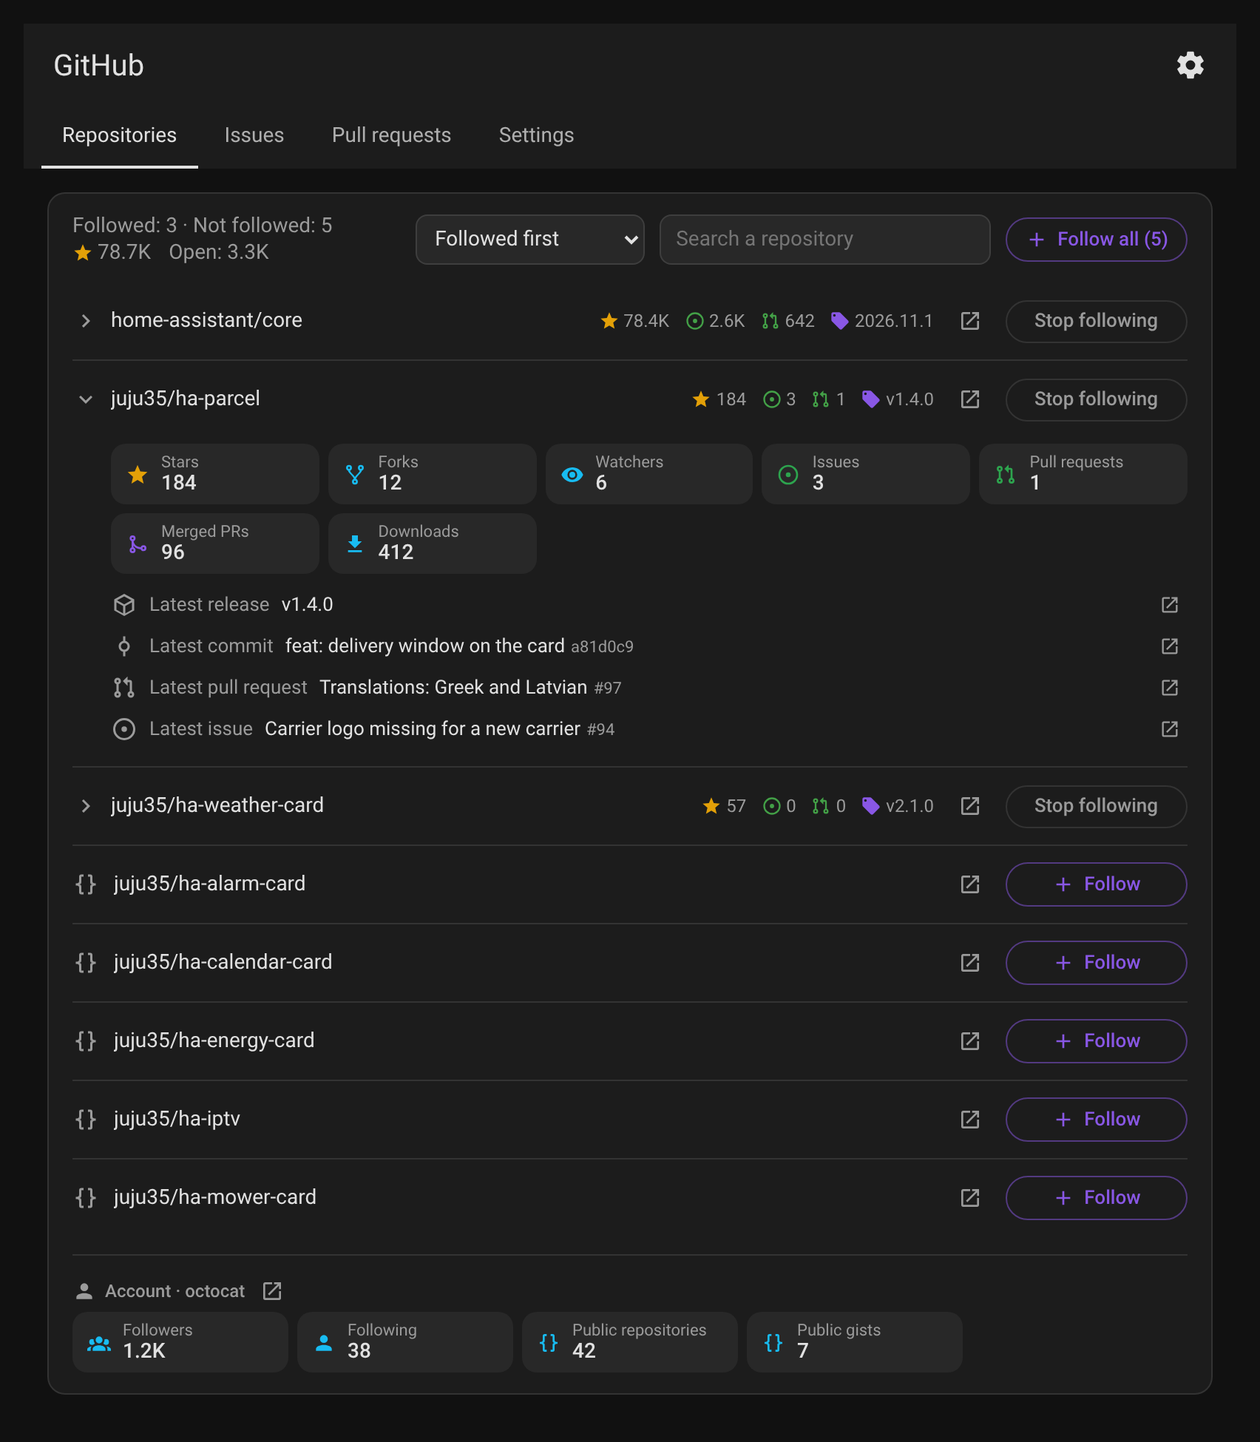
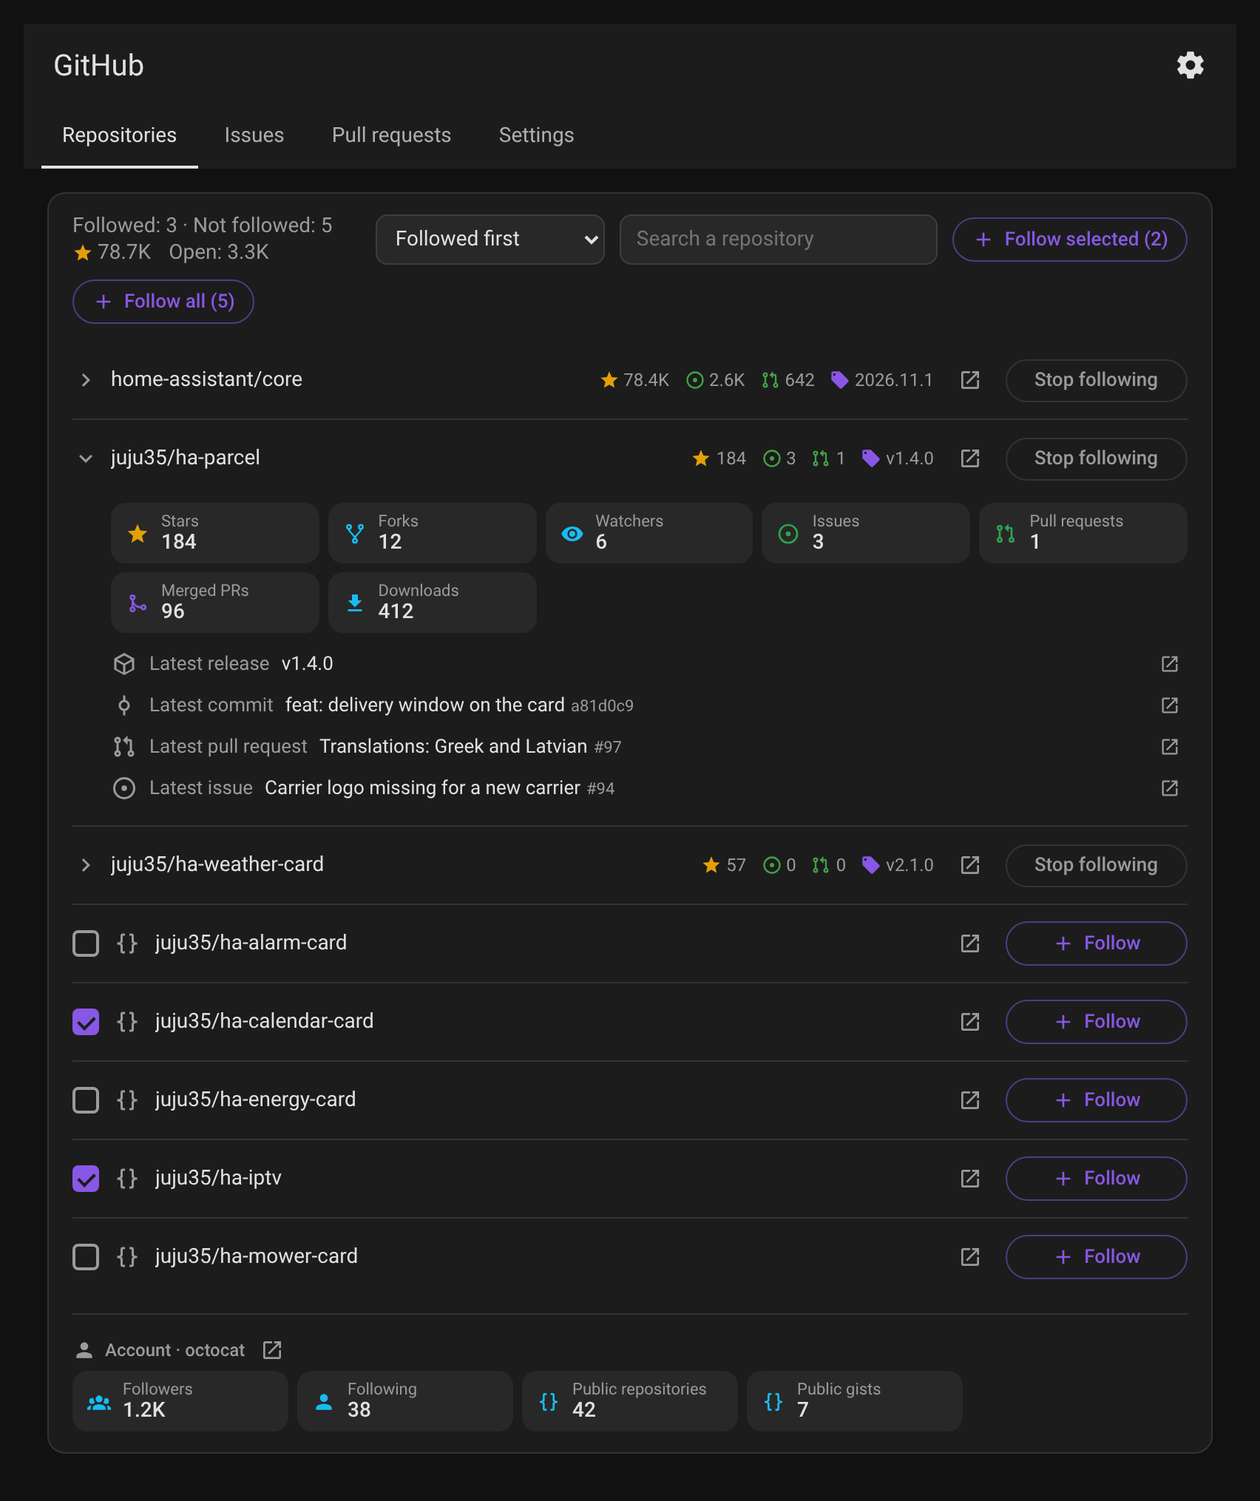
feat: follow several selected repositories at once (2.7.0) (#21)
## Summary
- Panel, **Repositories** tab: a checkbox on each repository not followed yet (accent color, labelled "Select owner/repo", 22 languages).
- **Follow selected (n)** appears in the head as soon as one is ticked, next to **Follow all**: the ticked repositories are followed in one `github_card/follow` command, so a single reload of the GitHub integration.
- The selection survives the search (repositories found by different searches can be followed together), drops repositories no longer offered, and is cleared once followed.
- Version 2.7.0, CHANGELOG, README.

## Tests
- New panel test (checkboxes rendered, head button, selection pruned, ticked repositories sent despite the search, selection cleared).
- node tests 41 passed, pytest 36 passed, Biome and jscpd clean.

diff --git a/custom_components/github_card/frontend/github-panel.js b/custom_components/github_card/frontend/github-panel.js
@@ -5,7 +5,7 @@
  * Four tabs under the toolbar, as in Smart Comfort and IPTV (text tabs, the active one underlined, the tab in the
  * address, Settings last):
  * - Repositories: the repositories of your GitHub account (and your starred ones, if chosen), followed or not by the
- *   core GitHub integration; follow or stop following one, or follow all of them at once (one reload of the GitHub
+ *   core GitHub integration; follow or stop following one, the ticked ones or all of them at once (one reload of the GitHub
  *   integration for the whole change), through the github_card/* WebSocket commands. Each followed repository shows
  *   its live counters and unfolds the GitHub Card's details; the head gives the totals (stars, open issues and pull
  *   requests), the GitHub account (followers…) closes the list;
@@ -15,7 +15,7 @@
  *   notifications.
  */
 
-const GITHUB_PANEL_VERSION = "2.6.0";
+const GITHUB_PANEL_VERSION = "2.7.0";
 // No Activity tab since 2.3.0: the Repositories tab shows the same; /github-config/activity opens Repositories.
 const GITHUB_PANEL_TABS = ["repos", "issues", "pulls", "settings"];
 // Orders of the Repositories tab (see GitHubPanel._rows)
@@ -38,6 +38,8 @@ const GITHUB_PANEL_KEYS = [
   "sort_label", "sort_followed", "sort_name", "sort_stars", "sort_issues", "sort_pulls",
   // A failed load, tried again at once
   "retry",
+  // Several repositories followed at once
+  "follow_selected", "select_repo",
 ];
 
 const GITHUB_PANEL_TRANSLATIONS = {
@@ -61,6 +63,7 @@ const GITHUB_PANEL_TRANSLATIONS = {
     "Stars", "Latest release", "Show or hide the details",
     "Sort", "Followed first", "Name", "Stars", "Open issues", "Open pull requests",
     "Retry",
+    "Follow selected ({n})", "Select {repo}",
   ],
   fr: [
     "GitHub", "Dépôts", "Activité", "Réglages", "Intégration GitHub", "Chargement…",
@@ -82,6 +85,7 @@ const GITHUB_PANEL_TRANSLATIONS = {
     "Étoiles", "Dernière version", "Afficher ou masquer le détail",
     "Tri", "Suivis d’abord", "Nom", "Étoiles", "Issues ouvertes", "Pull requests ouvertes",
     "Réessayer",
+    "Suivre la sélection ({n})", "Sélectionner {repo}",
   ],
   de: [
     "GitHub", "Repositorys", "Aktivität", "Einstellungen", "GitHub-Integration", "Wird geladen…",
@@ -103,6 +107,7 @@ const GITHUB_PANEL_TRANSLATIONS = {
     "Sterne", "Neuestes Release", "Details ein- oder ausblenden",
     "Sortierung", "Verfolgte zuerst", "Name", "Sterne", "Offene Issues", "Offene Pull Requests",
     "Erneut versuchen",
+    "Auswahl verfolgen ({n})", "{repo} auswählen",
   ],
   es: [
     "GitHub", "Repositorios", "Actividad", "Ajustes", "Integración GitHub", "Cargando…",
@@ -124,6 +129,7 @@ const GITHUB_PANEL_TRANSLATIONS = {
     "Estrellas", "Última versión", "Mostrar u ocultar el detalle",
     "Orden", "Seguidos primero", "Nombre", "Estrellas", "Issues abiertas", "Pull requests abiertas",
     "Reintentar",
+    "Seguir la selección ({n})", "Seleccionar {repo}",
   ],
   sr: [
     "GitHub", "Репозиторијуми", "Активност", "Подешавања", "Интеграција GitHub", "Учитавање…",
@@ -145,6 +151,7 @@ const GITHUB_PANEL_TRANSLATIONS = {
     "Звездице", "Најновије издање", "Прикажи или сакриј детаље",
     "Редослед", "Прво праћени", "Име", "Звездице", "Отворени проблеми", "Отворени pull захтеви",
     "Покушај поново",
+    "Прати изабране ({n})", "Изабери {repo}",
   ],
   "sr-Latn": [
     "GitHub", "Repozitorijumi", "Aktivnost", "Podešavanja", "Integracija GitHub", "Učitavanje…",
@@ -166,6 +173,7 @@ const GITHUB_PANEL_TRANSLATIONS = {
     "Zvezdice", "Najnovije izdanje", "Prikaži ili sakrij detalje",
     "Redosled", "Prvo praćeni", "Ime", "Zvezdice", "Otvoreni problemi", "Otvoreni pull zahtevi",
     "Pokušaj ponovo",
+    "Prati izabrane ({n})", "Izaberi {repo}",
   ],
   it: [
     "GitHub", "Repository", "Attività", "Impostazioni", "Integrazione GitHub", "Caricamento…",
@@ -187,6 +195,7 @@ const GITHUB_PANEL_TRANSLATIONS = {
     "Stelle", "Ultima release", "Mostra o nascondi i dettagli",
     "Ordinamento", "Prima i seguiti", "Nome", "Stelle", "Issue aperte", "Pull request aperte",
     "Riprova",
+    "Segui la selezione ({n})", "Seleziona {repo}",
   ],
   nl: [
     "GitHub", "Repositories", "Activiteit", "Instellingen", "GitHub-integratie", "Laden…",
@@ -208,6 +217,7 @@ const GITHUB_PANEL_TRANSLATIONS = {
     "Sterren", "Nieuwste release", "Details tonen of verbergen",
     "Sortering", "Gevolgde eerst", "Naam", "Sterren", "Open issues", "Open pull requests",
     "Opnieuw proberen",
+    "Selectie volgen ({n})", "{repo} selecteren",
   ],
   pt: [
     "GitHub", "Repositórios", "Atividade", "Definições", "Integração GitHub", "A carregar…",
@@ -229,6 +239,7 @@ const GITHUB_PANEL_TRANSLATIONS = {
     "Estrelas", "Versão mais recente", "Mostrar ou ocultar o detalhe",
     "Ordenação", "Seguidos primeiro", "Nome", "Estrelas", "Issues em aberto", "Pull requests em aberto",
     "Tentar novamente",
+    "Seguir a seleção ({n})", "Selecionar {repo}",
   ],
   pl: [
     "GitHub", "Repozytoria", "Aktywność", "Ustawienia", "Integracja GitHub", "Ładowanie…",
@@ -250,6 +261,7 @@ const GITHUB_PANEL_TRANSLATIONS = {
     "Gwiazdki", "Najnowsze wydanie", "Pokaż lub ukryj szczegóły",
     "Sortowanie", "Najpierw śledzone", "Nazwa", "Gwiazdki", "Otwarte zgłoszenia", "Otwarte pull requesty",
     "Spróbuj ponownie",
+    "Obserwuj zaznaczone ({n})", "Zaznacz {repo}",
   ],
   ro: [
     "GitHub", "Depozite", "Activitate", "Setări", "Integrarea GitHub", "Se încarcă…",
@@ -271,6 +283,7 @@ const GITHUB_PANEL_TRANSLATIONS = {
     "Stele", "Cea mai recentă versiune", "Afișează sau ascunde detaliile",
     "Sortare", "Mai întâi cele urmărite", "Nume", "Stele", "Issue-uri deschise", "Pull request-uri deschise",
     "Reîncearcă",
+    "Urmărește selecția ({n})", "Selectează {repo}",
   ],
   da: [
     "GitHub", "Repositories", "Aktivitet", "Indstillinger", "GitHub-integration", "Indlæser…",
@@ -292,6 +305,7 @@ const GITHUB_PANEL_TRANSLATIONS = {
     "Stjerner", "Seneste udgivelse", "Vis eller skjul detaljer",
     "Sortering", "Fulgte først", "Navn", "Stjerner", "Åbne issues", "Åbne pull requests",
     "Prøv igen",
+    "Følg valgte ({n})", "Vælg {repo}",
   ],
   sv: [
     "GitHub", "Repon", "Aktivitet", "Inställningar", "GitHub-integration", "Laddar…",
@@ -313,6 +327,7 @@ const GITHUB_PANEL_TRANSLATIONS = {
     "Stjärnor", "Senaste release", "Visa eller dölj detaljer",
     "Sortering", "Följda först", "Namn", "Stjärnor", "Öppna ärenden", "Öppna pull requests",
     "Försök igen",
+    "Följ valda ({n})", "Välj {repo}",
   ],
   bg: [
     "GitHub", "Хранилища", "Активност", "Настройки", "Интеграция GitHub", "Зареждане…",
@@ -334,6 +349,7 @@ const GITHUB_PANEL_TRANSLATIONS = {
     "Звезди", "Последна версия", "Покажи или скрий подробностите",
     "Подреждане", "Първо следените", "Име", "Звезди", "Отворени проблеми", "Отворени pull заявки",
     "Опитай отново",
+    "Следи избраните ({n})", "Избери {repo}",
   ],
   ru: [
     "GitHub", "Репозитории", "Активность", "Настройки", "Интеграция GitHub", "Загрузка…",
@@ -355,6 +371,7 @@ const GITHUB_PANEL_TRANSLATIONS = {
     "Звёзды", "Последний релиз", "Показать или скрыть подробности",
     "Сортировка", "Сначала отслеживаемые", "Имя", "Звёзды", "Открытые задачи", "Открытые pull-запросы",
     "Повторить",
+    "Отслеживать выбранные ({n})", "Выбрать {repo}",
   ],
   uk: [
     "GitHub", "Репозиторії", "Активність", "Налаштування", "Інтеграція GitHub", "Завантаження…",
@@ -376,6 +393,7 @@ const GITHUB_PANEL_TRANSLATIONS = {
     "Зірки", "Останній реліз", "Показати або приховати подробиці",
     "Сортування", "Спершу відстежувані", "Назва", "Зірки", "Відкриті задачі", "Відкриті pull-запити",
     "Повторити",
+    "Відстежувати вибрані ({n})", "Вибрати {repo}",
   ],
   hu: [
     "GitHub", "Tárolók", "Tevékenység", "Beállítások", "GitHub integráció", "Betöltés…",
@@ -397,6 +415,7 @@ const GITHUB_PANEL_TRANSLATIONS = {
     "Csillagok", "Legújabb kiadás", "Részletek megjelenítése vagy elrejtése",
     "Rendezés", "Követettek elöl", "Név", "Csillagok", "Nyitott hibajegyek", "Nyitott pull requestek",
     "Újra",
+    "Kijelöltek követése ({n})", "{repo} kijelölése",
   ],
   sk: [
     "GitHub", "Repozitáre", "Aktivita", "Nastavenia", "Integrácia GitHub", "Načítava sa…",
@@ -418,6 +437,7 @@ const GITHUB_PANEL_TRANSLATIONS = {
     "Hviezdičky", "Najnovšie vydanie", "Zobraziť alebo skryť podrobnosti",
     "Zoradenie", "Najprv sledované", "Názov", "Hviezdičky", "Otvorené problémy", "Otvorené pull requesty",
     "Skúsiť znova",
+    "Sledovať vybrané ({n})", "Vybrať {repo}",
   ],
   cs: [
     "GitHub", "Repozitáře", "Aktivita", "Nastavení", "Integrace GitHub", "Načítání…",
@@ -439,6 +459,7 @@ const GITHUB_PANEL_TRANSLATIONS = {
     "Hvězdičky", "Nejnovější vydání", "Zobrazit nebo skrýt podrobnosti",
     "Řazení", "Nejdřív sledované", "Název", "Hvězdičky", "Otevřené problémy", "Otevřené pull requesty",
     "Zkusit znovu",
+    "Sledovat vybrané ({n})", "Vybrat {repo}",
   ],
   sl: [
     "GitHub", "Repozitoriji", "Dejavnost", "Nastavitve", "Integracija GitHub", "Nalaganje…",
@@ -460,6 +481,7 @@ const GITHUB_PANEL_TRANSLATIONS = {
     "Zvezdice", "Najnovejša izdaja", "Prikaži ali skrij podrobnosti",
     "Razvrščanje", "Najprej spremljani", "Ime", "Zvezdice", "Odprte težave", "Odprti pull requesti",
     "Poskusi znova",
+    "Spremljaj izbrane ({n})", "Izberi {repo}",
   ],
   lv: [
     "GitHub", "Krātuves", "Aktivitāte", "Iestatījumi", "GitHub integrācija", "Ielādē…",
@@ -481,6 +503,7 @@ const GITHUB_PANEL_TRANSLATIONS = {
     "Zvaigznes", "Jaunākais laidiens", "Rādīt vai paslēpt informāciju",
     "Kārtošana", "Vispirms sekotās", "Nosaukums", "Zvaigznes", "Atvērtās problēmas", "Atvērtie pull pieprasījumi",
     "Mēģināt vēlreiz",
+    "Sekot atlasītajām ({n})", "Atlasīt {repo}",
   ],
   el: [
     "GitHub", "Αποθετήρια", "Δραστηριότητα", "Ρυθμίσεις", "Ενσωμάτωση GitHub", "Φόρτωση…",
@@ -502,6 +525,7 @@ const GITHUB_PANEL_TRANSLATIONS = {
     "Αστέρια", "Τελευταία έκδοση", "Εμφάνιση ή απόκρυψη λεπτομερειών",
     "Ταξινόμηση", "Πρώτα τα παρακολουθούμενα", "Όνομα", "Αστέρια", "Ανοιχτά ζητήματα", "Ανοιχτά pull requests",
     "Δοκιμή ξανά",
+    "Παρακολούθηση επιλεγμένων ({n})", "Επιλογή {repo}",
   ],
 };
 
@@ -582,6 +606,11 @@ class GitHubPanel extends HTMLElement {
     /* Same width for Follow and Stop following, so the links line up */
     .row > .act { min-width:9.5em; justify-content:center; }
     .row .chip .i { width:12px; height:12px; }
+    .row .pick-repo { appearance:none; width:18px; height:18px; margin:0; flex:none; cursor:pointer; border-radius:4px; display:grid; place-items:center;
+           border:2px solid var(--secondary-text-color); background:none; }
+    .row .pick-repo:checked { border-color:var(--gh-accent); background:var(--gh-accent); }
+    .row .pick-repo:checked::after { content:""; width:5px; height:9px; margin-top:-2px; border:solid var(--card-background-color, #fff); border-width:0 2px 2px 0; transform:rotate(45deg); }
+    .row .pick-repo[disabled] { opacity:.5; cursor:default; }
     .row .link { display:grid; place-items:center; width:28px; height:28px; border-radius:50%; color:var(--secondary-text-color); flex:none; }
     .row .link:hover { background:color-mix(in srgb, var(--secondary-text-color) 15%, transparent); }
     .row .link .i { width:16px; height:16px; }
@@ -651,6 +680,7 @@ class GitHubPanel extends HTMLElement {
     this._busy = false;
     this._message = null; // { tone, text }
     this._confirm = null; // repository whose unfollowing is being confirmed
+    this._selected = new Set(); // repositories not followed yet, ticked to follow them together
     this._items = null; // open issues and pull requests, loaded with the first of their tabs
     this._itemsBusy = false;
     this._itemRepo = ""; // repository filter of the Issues and Pull requests tabs
@@ -926,6 +956,9 @@ class GitHubPanel extends HTMLElement {
     }
     const rows = this._rows();
     const toFollow = rows.filter((r) => !r.followed).map((r) => r.name);
+    // The selection keeps only repositories still offered (a follow, other settings, another panel)
+    for (const name of this._selected) if (!o.offered.includes(name)) this._selected.delete(name);
+    const selected = [...this._selected];
     const notes = [];
     if (o.state && o.state !== "loaded") notes.push(`<div class="note warn">${esc(this._t("not_loaded", { state: o.state }))}</div>`);
     if (o.offered_error && o.state === "loaded") notes.push(`<div class="note warn">${esc(this._t("offered_error"))}</div>`);
@@ -945,8 +978,11 @@ class GitHubPanel extends HTMLElement {
       const action = r.followed
         ? `<button class="act quiet" data-action="unfollow" data-repo="${esc(r.name)}"${disabled}>${esc(this._t("unfollow"))}</button>`
         : `<button class="act" data-action="follow" data-repo="${esc(r.name)}"${disabled}>${githubPanelIcon("plus")}${esc(this._t("follow"))}</button>`;
-      if (!r.followed)
-        return `<div class="row">${githubPanelIcon("code")}<span class="n" title="${esc(r.name)}">${esc(r.name)}</span>${link}${action}</div>`;
+      if (!r.followed) {
+        const label = esc(this._t("select_repo", { repo: r.name }));
+        const box = `<input type="checkbox" class="pick-repo" data-repo="${esc(r.name)}" aria-label="${label}" title="${label}"${this._selected.has(r.name) ? " checked" : ""}${disabled}>`;
+        return `<div class="row">${box}${githubPanelIcon("code")}<span class="n" title="${esc(r.name)}">${esc(r.name)}</span>${link}${action}</div>`;
+      }
       // A followed repository: its name unfolds the GitHub Card's counters and latest activity under the row
       const open = this._expanded === r.name;
       return `<div class="row${open ? " open" : ""}">
@@ -962,6 +998,7 @@ class GitHubPanel extends HTMLElement {
             (v) => `<option value="${v}"${v === this._sort ? " selected" : ""}>${esc(this._t(`sort_${v}`))}</option>`,
           ).join("")}</select>
           <label class="search"><input type="search" placeholder="${esc(this._t("search"))}" aria-label="${esc(this._t("search"))}" value="${esc(this._query)}"></label>
+          ${selected.length ? `<button class="act" data-action="follow-selected"${disabled}>${githubPanelIcon("plus")}${esc(this._t("follow_selected", { n: selected.length }))}</button>` : ""}
           ${toFollow.length > 1 ? `<button class="act" data-action="follow-all"${disabled}>${githubPanelIcon("plus")}${esc(this._t("follow_all", { n: toFollow.length }))}</button>` : ""}
         </div>
         ${notes.join("")}
@@ -1089,6 +1126,12 @@ class GitHubPanel extends HTMLElement {
       again?.focus();
       again?.setSelectionRange(at, at);
     });
+    for (const box of host.querySelectorAll("input.pick-repo"))
+      box.addEventListener("change", () => {
+        if (box.checked) this._selected.add(box.dataset.repo);
+        else this._selected.delete(box.dataset.repo);
+        this._renderRepos();
+      });
     for (const button of host.querySelectorAll("[data-action]"))
       button.addEventListener("click", () => this._repoAction(button.dataset.action, button.dataset.repo));
   }
@@ -1097,6 +1140,8 @@ class GitHubPanel extends HTMLElement {
     if (action === "add-github") return this._navigate("/config/integrations/dashboard/add?domain=github");
     if (action === "retry") return this._reload();
     if (action === "follow") return this._follow([repo], []);
+    // The ticked repositories, hidden by the search or not, in one command
+    if (action === "follow-selected") return this._follow([...this._selected], []);
     if (action === "follow-all")
       return this._follow(
         this._rows()
@@ -1125,6 +1170,7 @@ class GitHubPanel extends HTMLElement {
       const res = await this._hass.callWS({ type: "github_card/follow", add, remove });
       if (!res.ok) this._message = { tone: "bad", text: this._t("error", { error: res.error }) };
       else {
+        this._selected.clear();
         const text = [this._t("done", { added: res.added.length, removed: res.removed.length })];
         if (res.skipped.length) text.push(this._t("skipped", { names: res.skipped.join(", ") }));
         this._message = { tone: res.skipped.length ? "warn" : "good", text: text.join(" · ") };

diff --git a/custom_components/github_card/frontend/github-card.js b/custom_components/github_card/frontend/github-card.js
@@ -8,7 +8,7 @@
  * entity registry (platform "github", translation key, device), whatever the language.
  */
 
-const VERSION = "2.6.0";
+const VERSION = "2.7.0";
 
 // Material Design Icons paths.
 const ICONS = {

diff --git a/custom_components/github_card/const.py b/custom_components/github_card/const.py
@@ -1,7 +1,7 @@
 """Constants for the GitHub Card integration."""
 
 DOMAIN = "github_card"
-VERSION = "2.6.0"
+VERSION = "2.7.0"
 
 # The core GitHub integration, whose repositories the panel follows and unfollows
 GITHUB_DOMAIN = "github"

diff --git a/README.md b/README.md
@@ -24,7 +24,7 @@ It works on top of the core [GitHub integration](https://www.home-assistant.io/i
 
 ### Sidebar panel (administrators only)
 
-- **Repositories**: every repository of your GitHub account (and your starred ones, if you choose), followed or not by the GitHub integration. Each followed one shows its stars, open issues, open pull requests and latest release on its row, and unfolds the same details as the GitHub Card (counters, latest release, commit, pull request, issue…). The head gives the totals of the followed repositories, and your GitHub account (followers, following, public repositories and gists) closes the list. **Follow** or **Stop following** one, or **Follow all** at once: the whole change reloads the GitHub integration a single time
+- **Repositories**: every repository of your GitHub account (and your starred ones, if you choose), followed or not by the GitHub integration. Each followed one shows its stars, open issues, open pull requests and latest release on its row, and unfolds the same details as the GitHub Card (counters, latest release, commit, pull request, issue…). The head gives the totals of the followed repositories, and your GitHub account (followers, following, public repositories and gists) closes the list. **Follow** or **Stop following** one, tick several and **Follow selected**, or **Follow all** at once: the whole change reloads the GitHub integration a single time
 - **Issues** and **Pull requests**: the open ones of all the followed repositories, most recently updated first, with their repository, number, author, age, comments and labels, and the review state of pull requests (approved, changes requested, review required, draft); filter by repository; each opens on GitHub
 - **Settings**: the repositories offered (name patterns such as `juju35/ha-*`, starred repositories, archived repositories ignored), and a Home Assistant notification for each new issue, pull request or release
 - Tabs in the address (`/github-config/issues`), so a link or a reload opens the same tab

diff --git a/CHANGELOG.md b/CHANGELOG.md
@@ -1,5 +1,10 @@
 # Changelog
 
+## 2.7.0 - 2026-11-13
+
+### Features
+- Panel, **Repositories**: a checkbox on each repository not followed yet, and **Follow selected (n)** in the head follows the ticked ones together (one reload of the GitHub integration). The selection stays while searching, so repositories found by different searches can be followed at once.
+
 ## 2.6.0 - 2026-11-13
 
 ### Features
